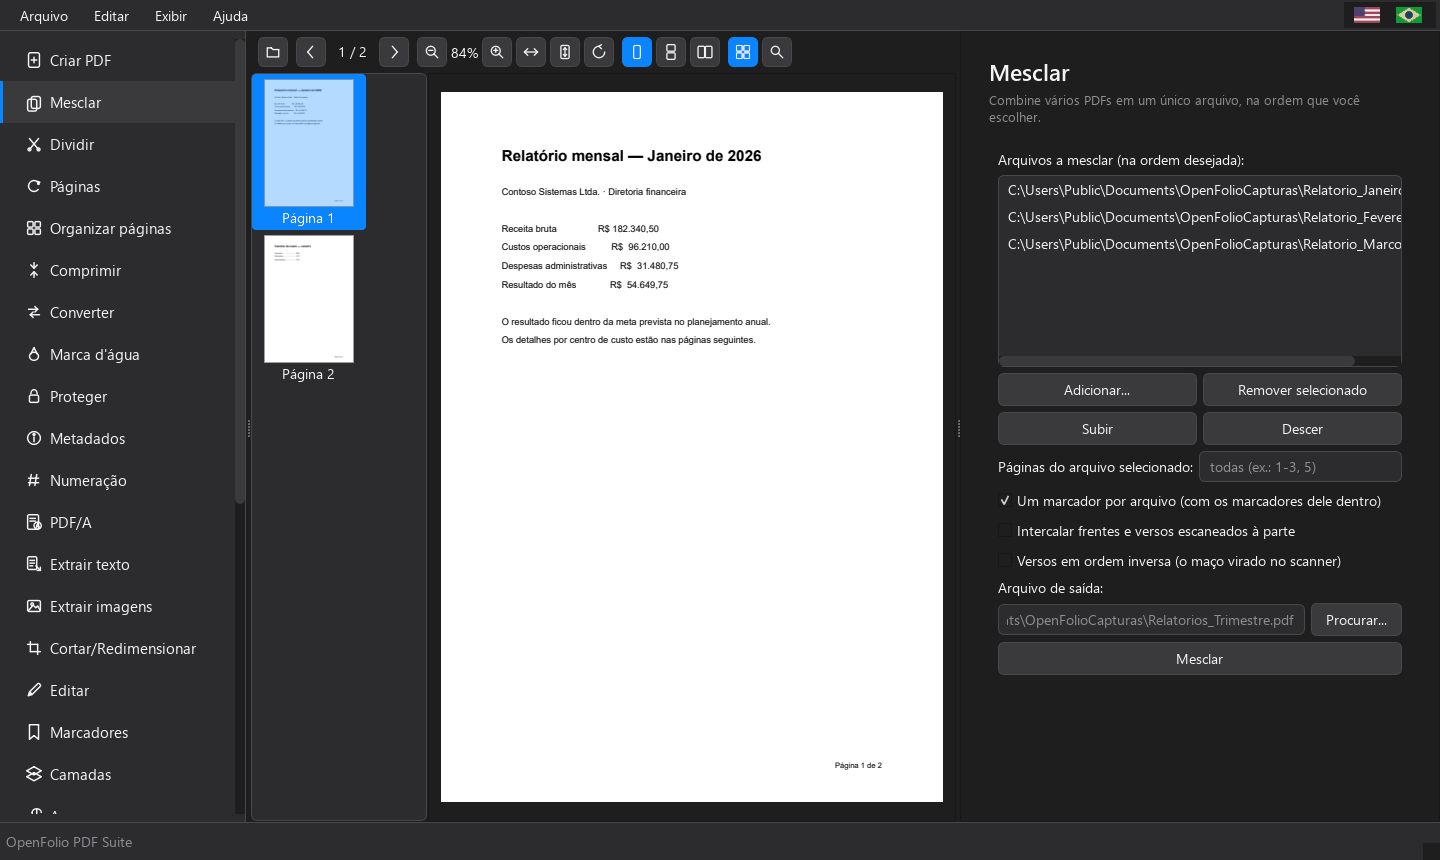
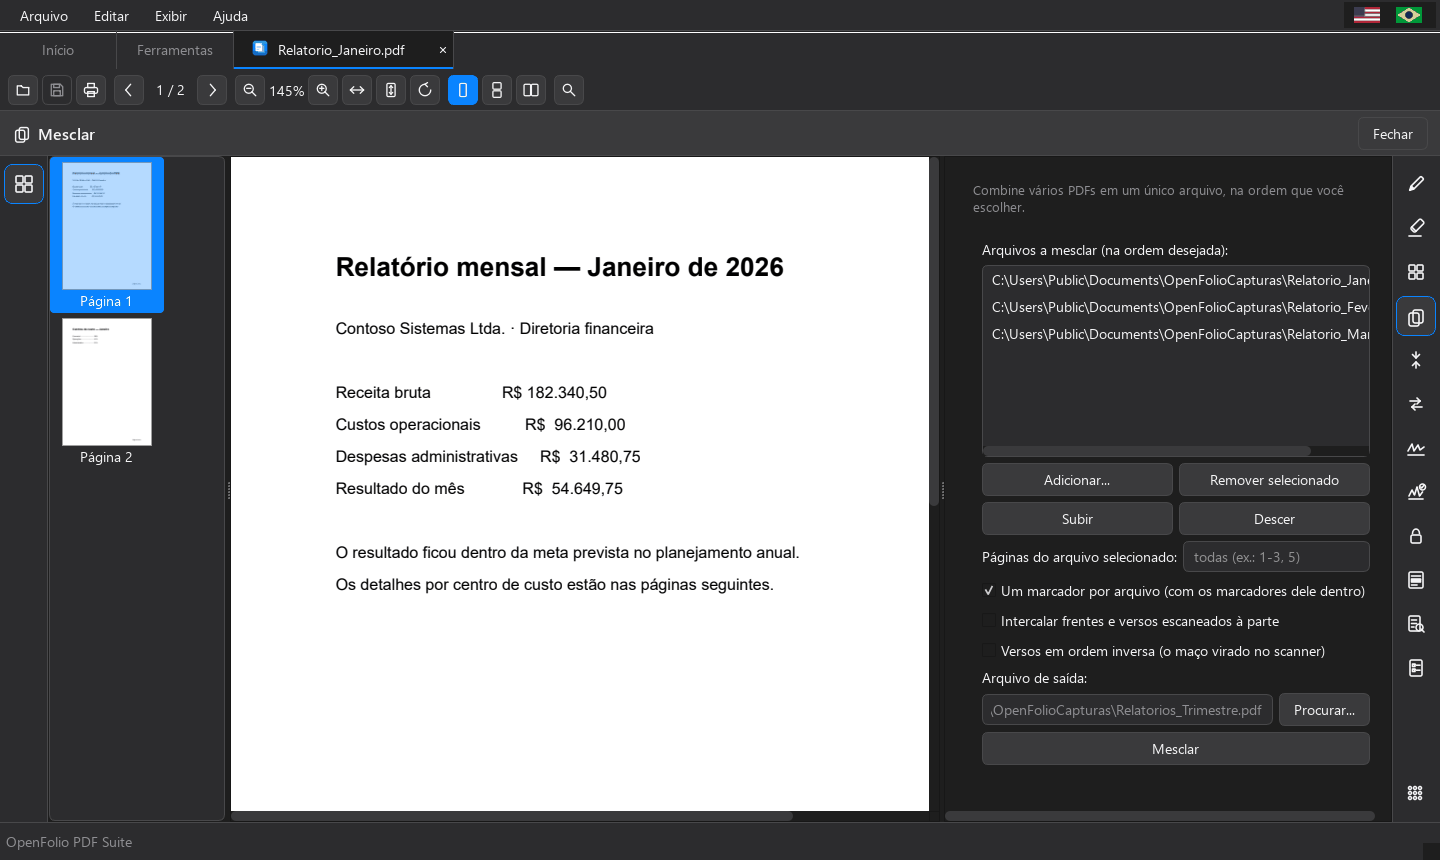
docs: descreve a janela em abas e refaz as capturas do README
A documentacao ainda falava da barra lateral de ferramentas e de PDFs
abertos por fora em janelas novas.

README:
- a janela em abas (Inicio, Ferramentas e uma por documento), a barra do
  documento, as colunas de icones e o painel da ferramenta com Fechar
- operacoes por documento, os divisores e o que o app lembra (tamanho,
  paineis e modo de exibicao); a primeira tela e a aba Inicio
- a lista dos modulos de ui/ com document_tab, home_page, tools_center e
  tools
- as capturas refeitas com a janela nova e uma nova, da aba Ferramentas
  (12-ferramentas.png); PNG com paleta, 573 KB no total

CHANGELOG: a atualizacao 2026-10-23 ainda nao foi publicada, entao a
janela nova e o modo de exibicao lembrado entram nela; PDFs abertos por
fora viram abas.

Testes: so documentacao; a suite continua com 927 testes.

diff --git a/README.md b/README.md
@@ -54,12 +54,16 @@ coisa, ele mostra o que a atualização traz e pergunta; no Windows, se você ac
 confere o arquivo e instala sozinho. Tudo o que mudou fica em [CHANGELOG.md](CHANGELOG.md).
 
 <p align="center">
-  <img src="assets/screenshots/01-visao-geral.png" alt="Janela principal do OpenFolio PDF Suite: sidebar, visualizador central com um PDF aberto e a aba Anotações" width="900">
+  <img src="assets/screenshots/01-visao-geral.png" alt="Janela principal do OpenFolio PDF Suite: abas de documento, miniaturas à esquerda, um PDF aberto e a ferramenta Anotações à direita" width="900">
 </p>
 
-A navegação é feita por uma barra lateral com ícone e descrição de cada ferramenta. No centro
-fica o visualizador — sempre visível, com miniaturas, marcadores e anexos ao lado, zoom
-(também com Ctrl + roda do mouse), ajuste à largura ou à página, rotação da visualização,
+A janela é organizada em abas: **Início** (abrir um PDF, as ferramentas de partida e os
+arquivos recentes), **Ferramentas** (todas as ferramentas, por categoria) e uma aba por
+documento aberto, com o próprio desfazer e a própria fila de operações. Em cada documento, a
+barra do topo tem abrir, salvar, imprimir, páginas, zoom e modos de exibição; a coluna de
+ícones da esquerda mostra miniaturas, marcadores e anexos; a da direita abre as ferramentas
+mais usadas num painel ao lado do documento, com o nome da ferramenta e **Fechar** no topo. No
+centro fica o visualizador — sempre visível, com zoom (também com Ctrl + roda do mouse), ajuste à largura ou à página, rotação da visualização,
 rolagem contínua, página única, página dupla ou livro (capa sozinha), busca que destaca todas
 as ocorrências e seleção de texto com Ctrl+C; **Exibir > Apresentação** (F5) mostra o
 documento em tela cheia, uma página por vez (setas, espaço ou clique passam; Esc sai). É nele que você desenha as anotações, marca as áreas de redação e posiciona o que
@@ -70,6 +74,10 @@ caixa ou a opção, ou mostra a lista de opções; cada campo preenchido pode se
 Ctrl+Z. Um aviso no topo indica quando o PDF está protegido, assinado, tem formulário ou
 camadas. Se o PDF estiver protegido por senha, o próprio
 visualizador pede a senha na hora de abrir.
+
+<p align="center">
+  <img src="assets/screenshots/12-ferramentas.png" alt="Aba Ferramentas com todas as ferramentas em cartões, agrupadas por categoria" width="900">
+</p>
 
 O documento aberto é um documento de trabalho: as ferramentas aplicam o resultado nele, cada
 operação pode ser desfeita (Ctrl+Z) e refeita (Ctrl+Y), e nada vai para o arquivo original
@@ -100,9 +108,10 @@ para editar título, autor e os outros campos da descrição e o pacote XMP inte
 nova do documento, que Ctrl+Z desfaz) e verificar o PDF/A e a acessibilidade.
 
 As operações rodam em segundo plano: a janela continua respondendo, a barra de status mostra
-o andamento e o botão "Cancelar" interrompe a operação sem deixar arquivo pela metade. Os
-divisores entre a barra lateral, o visualizador e o painel podem ser arrastados, e o app
-lembra o tamanho da janela. Erros inesperados ficam registrados em `openfolio.log`, na pasta
+o andamento e o botão "Cancelar" interrompe a operação sem deixar arquivo pela metade; uma
+operação longa num documento não trava os outros. Os divisores entre o painel lateral, o
+visualizador e o painel da ferramenta podem ser arrastados, e o app lembra o tamanho da janela,
+a largura dos painéis e o modo de exibição das páginas. Erros inesperados ficam registrados em `openfolio.log`, na pasta
 de dados do app (no Windows, `%LOCALAPPDATA%\OpenFolio\OpenFolio PDF Suite\logs`), para
 anexar a uma issue.
 
@@ -313,8 +322,8 @@ Isso instala o pacote em modo editável junto com todas as dependências (`pypdf
 python main.py
 ```
 
-A janela principal abre em modo escuro, com a aba **Criar PDF** selecionada por padrão. Basta
-escolher a ferramenta desejada na barra lateral. **Exibir > Tema** troca para o tema claro ou
+A janela principal abre em modo escuro, na aba **Início**. Abra um PDF ou escolha uma
+ferramenta na aba **Ferramentas** (ou na coluna de ícones à direita do documento). **Exibir > Tema** troca para o tema claro ou
 segue o do sistema (inclusive quando ele muda com o app aberto); a escolha é lembrada.
 
 **Ctrl+K** (Exibir > Paleta de comandos) abre uma busca por todas as ferramentas e comandos dos
@@ -398,8 +407,12 @@ core/            Lógica de manipulação de PDF, sem nenhuma dependência de UI
   signature.py     Assinatura digital (pyhanko) e verificação completa das assinaturas
 
 ui/              Interface gráfica (PySide6)
-  main_window.py       Janela principal: sidebar, visualizador e as 26 seções (cada aba é
-                       construída na primeira vez em que é aberta)
+  main_window.py       Janela principal: as abas Início, Ferramentas e uma por documento
+  document_tab.py      Aba de documento: visualizador, colunas de ícones e painel da ferramenta
+                       (cada ferramenta é construída na primeira vez em que é aberta)
+  home_page.py         Aba Início: abrir, ferramentas de partida e arquivos recentes
+  tools_center.py      Aba Ferramentas: todas as ferramentas, por categoria
+  tools.py             Catálogo das ferramentas (categorias e atalhos da coluna da direita)
   theme.py             Temas escuro e claro (ou o do sistema), inspirados no macOS
   icon.py              Ícone da aplicação (renderizado a partir de assets/logo.svg)
   document_session.py  Documento de trabalho: arquivo do usuário, versões, desfazer/refazer

diff --git a/CHANGELOG.md b/CHANGELOG.md
@@ -4,16 +4,6 @@ O OpenFolio PDF Suite não tem número de versão: há uma só, que recebe atual
 atualização é identificada pela data em que foi publicada e só é instalada se você aceitar,
 depois de ver o que ela traz (o texto de cada uma abaixo é o que aparece no aviso do app).
 
-## Próxima atualização
-
-Ainda não publicada.
-
-### Uso
-
-- O modo de exibição das páginas (página única, rolagem contínua, página dupla ou livro)
-  escolhido no visualizador ou em Exibir > Páginas fica guardado para a próxima vez que o app
-  abrir.
-
 ## 2026-10-23
 
 Primeira atualização depois da beta 0.2.0-beta.1. O app ainda não tem assinatura de código: no
@@ -39,6 +29,13 @@ mas foram menos usadas na prática que a do Windows.
 
 ### Uso
 
+- Janela nova, organizada em abas: Início (abrir um PDF, as ferramentas de partida e os
+  recentes), Ferramentas (todas as ferramentas, por categoria) e uma aba por documento aberto,
+  cada um com o próprio desfazer. Em cada documento, a barra do topo traz abrir, salvar e
+  imprimir; a coluna da esquerda, miniaturas, marcadores e anexos; a da direita, as ferramentas
+  mais usadas, num painel ao lado do documento com Fechar no topo.
+- O modo de exibição das páginas (página única, rolagem contínua, página dupla ou livro) fica
+  guardado para a próxima vez que o app abrir.
 - Operações longas mostram o andamento e podem ser canceladas, sem travar a janela.
 - O documento aberto ganha desfazer e refazer (Ctrl+Z e Ctrl+Y) para todas as ferramentas.
 - Novas ferramentas: imprimir, organizar páginas, preencher formulários direto no documento,
@@ -80,8 +77,8 @@ mas foram menos usadas na prática que a do Windows.
 - No Windows, o instalador oferece escolher o OpenFolio como programa padrão para PDF.
 - No Linux, o AppImage oferece aparecer no menu de aplicativos e na escolha do programa para
   abrir PDF (Ajuda > Mostrar no menu de aplicativos).
-- Com o OpenFolio já aberto, abrir outro PDF (duplo clique, "Abrir com") abre uma janela nova
-  no app aberto, mais rápido; uma operação numa janela não trava as outras.
+- Com o OpenFolio já aberto, abrir outro PDF (duplo clique, "Abrir com") abre uma aba nova na
+  janela aberta, mais rápido; uma operação num documento não trava os outros.
 - Tema claro ou o do sistema, modo apresentação, página dupla e livro, paleta de comandos
   (Ctrl+K) e atalhos de teclado configuráveis.
 - Linha de comando (`openfolio`) para usar as ferramentas em scripts, que vem com os
